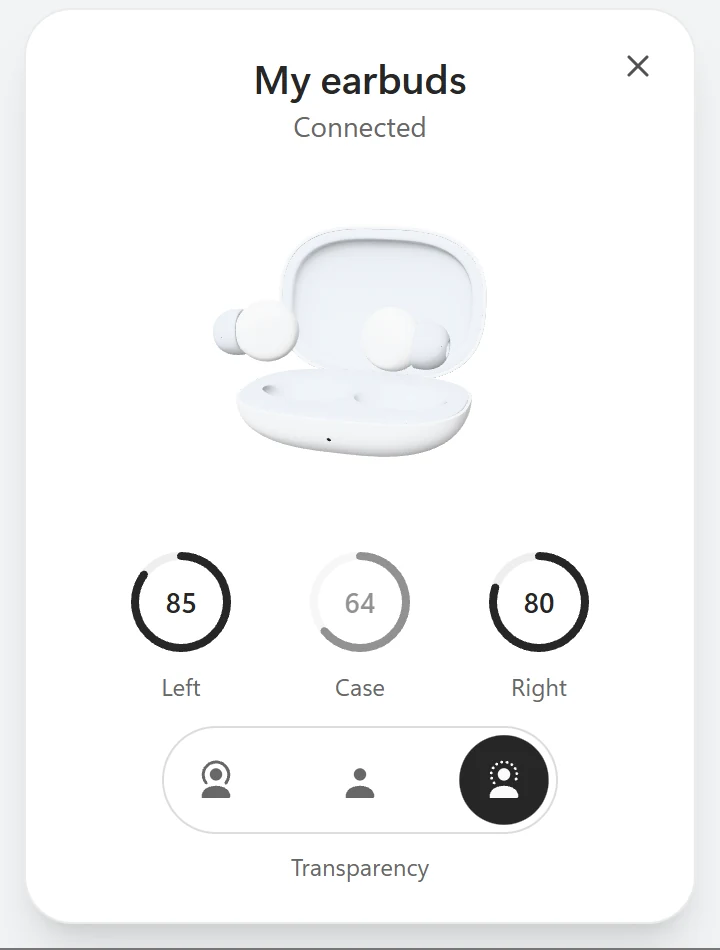
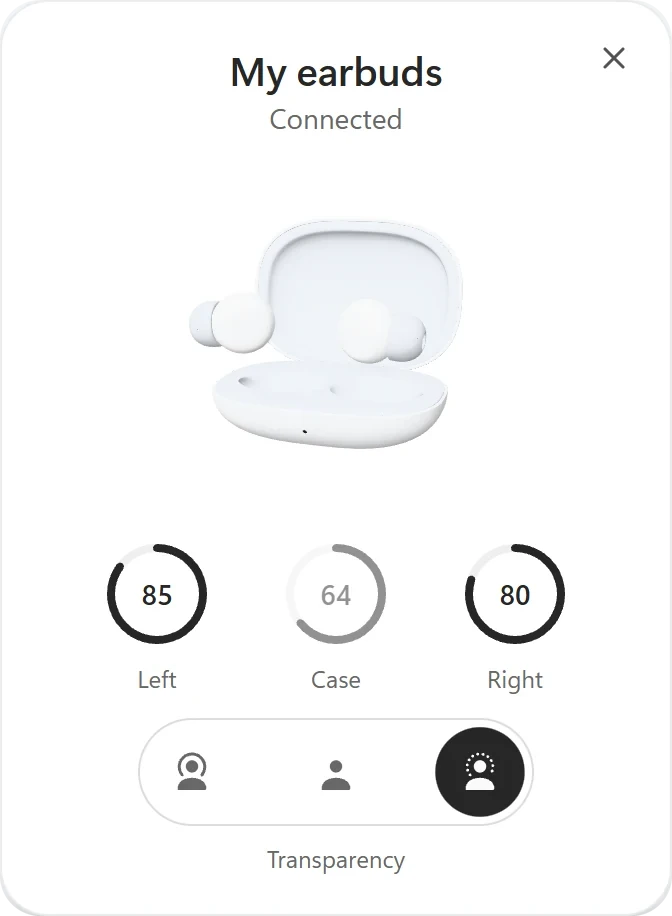
fix(website): Clean up the app showcase
Crop the grey line baked into the bottom of every screenshot, and cut the
popups out to their rounded shape so the desktop wallpaper no longer
frames them. Give the popup its own column instead of laying it over the
dark window, where it hid the Right ring and the noise control.

diff --git a/website/index.html b/website/index.html
@@ -123,14 +123,14 @@
           <div class="desktop">
             <figure class="window light">
               <div class="titlebar"><img src="assets/favicon.png" alt="" width="14" height="14" /> FitsWise<span class="controls" aria-hidden="true"><i></i><i></i><i></i></span></div>
-              <img src="assets/main-light.webp" alt="FitsWise with both buds in the case: battery rings for left, case and right, and the noise control buttons." width="385" height="563" loading="lazy" />
+              <img src="assets/main-light.webp" alt="FitsWise with both buds in the case: battery rings for left, case and right, and the noise control buttons." width="380" height="562" loading="lazy" />
             </figure>
             <figure class="window dark">
               <div class="titlebar"><img src="assets/favicon.png" alt="" width="14" height="14" /> FitsWise<span class="controls" aria-hidden="true"><i></i><i></i><i></i></span></div>
-              <img src="assets/main-dark.webp" alt="FitsWise in dark mode while the buds are worn, with noise cancelling on." width="385" height="563" loading="lazy" />
+              <img src="assets/main-dark.webp" alt="FitsWise in dark mode while the buds are worn, with noise cancelling on." width="380" height="562" loading="lazy" />
             </figure>
             <figure class="popup">
-              <img src="assets/popup-dark.webp" alt="The popup that appears when your buds connect, with the case, battery and noise control." width="365" height="475" loading="lazy" />
+              <img src="assets/popup-dark.webp" alt="The popup that appears when your buds connect, with the case, battery and noise control." width="336" height="458" loading="lazy" />
             </figure>
           </div>
 

diff --git a/website/styles.css b/website/styles.css
@@ -485,9 +485,10 @@ main,
 .desktop {
   position: relative;
   display: grid;
-  grid-template-columns: repeat(2, minmax(0, 340px));
+  grid-template-columns: minmax(0, 320px) minmax(0, 320px) minmax(0, 250px);
   justify-content: center;
-  gap: 32px;
+  align-items: start;
+  gap: 28px;
   margin-top: 48px;
   padding: 56px 24px;
   border-radius: 32px;
@@ -558,25 +559,28 @@ main,
 }
 
 .popup {
-  position: absolute;
-  inset-inline-end: max(4%, calc(50% - 470px));
-  bottom: 28px;
-  width: min(250px, 36%);
-  margin: 0;
+  align-self: end;
+  margin: 0 0 8px;
   filter: drop-shadow(0 30px 40px rgb(0 0 0 / 55%));
 }
 
-@media (max-width: 760px) {
+@media (max-width: 1000px) {
   .desktop {
-    grid-template-columns: minmax(0, 300px);
-    padding: 32px 16px 120px;
+    grid-template-columns: minmax(0, 320px) minmax(0, 250px);
   }
   .window.dark {
     display: none;
   }
+}
+
+@media (max-width: 760px) {
+  .desktop {
+    grid-template-columns: minmax(0, 1.25fr) minmax(0, 1fr);
+    gap: 12px;
+    padding: 28px 12px;
+  }
   .popup {
-    inset-inline-end: 16px;
-    bottom: 16px;
+    margin: 0;
   }
 }
 
